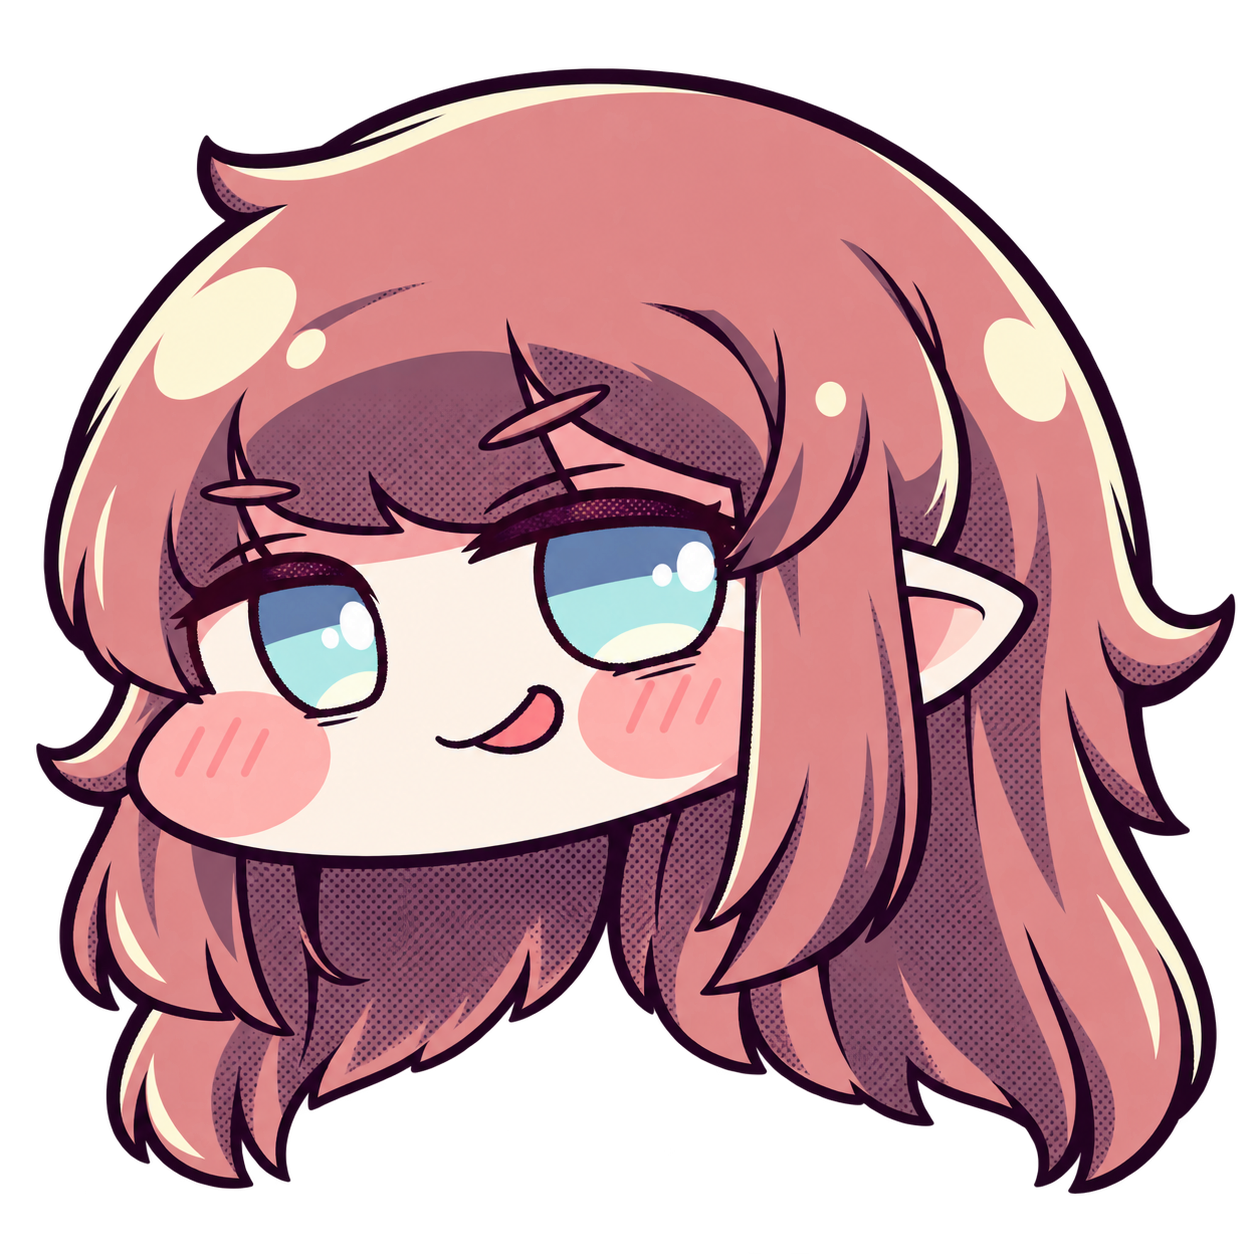
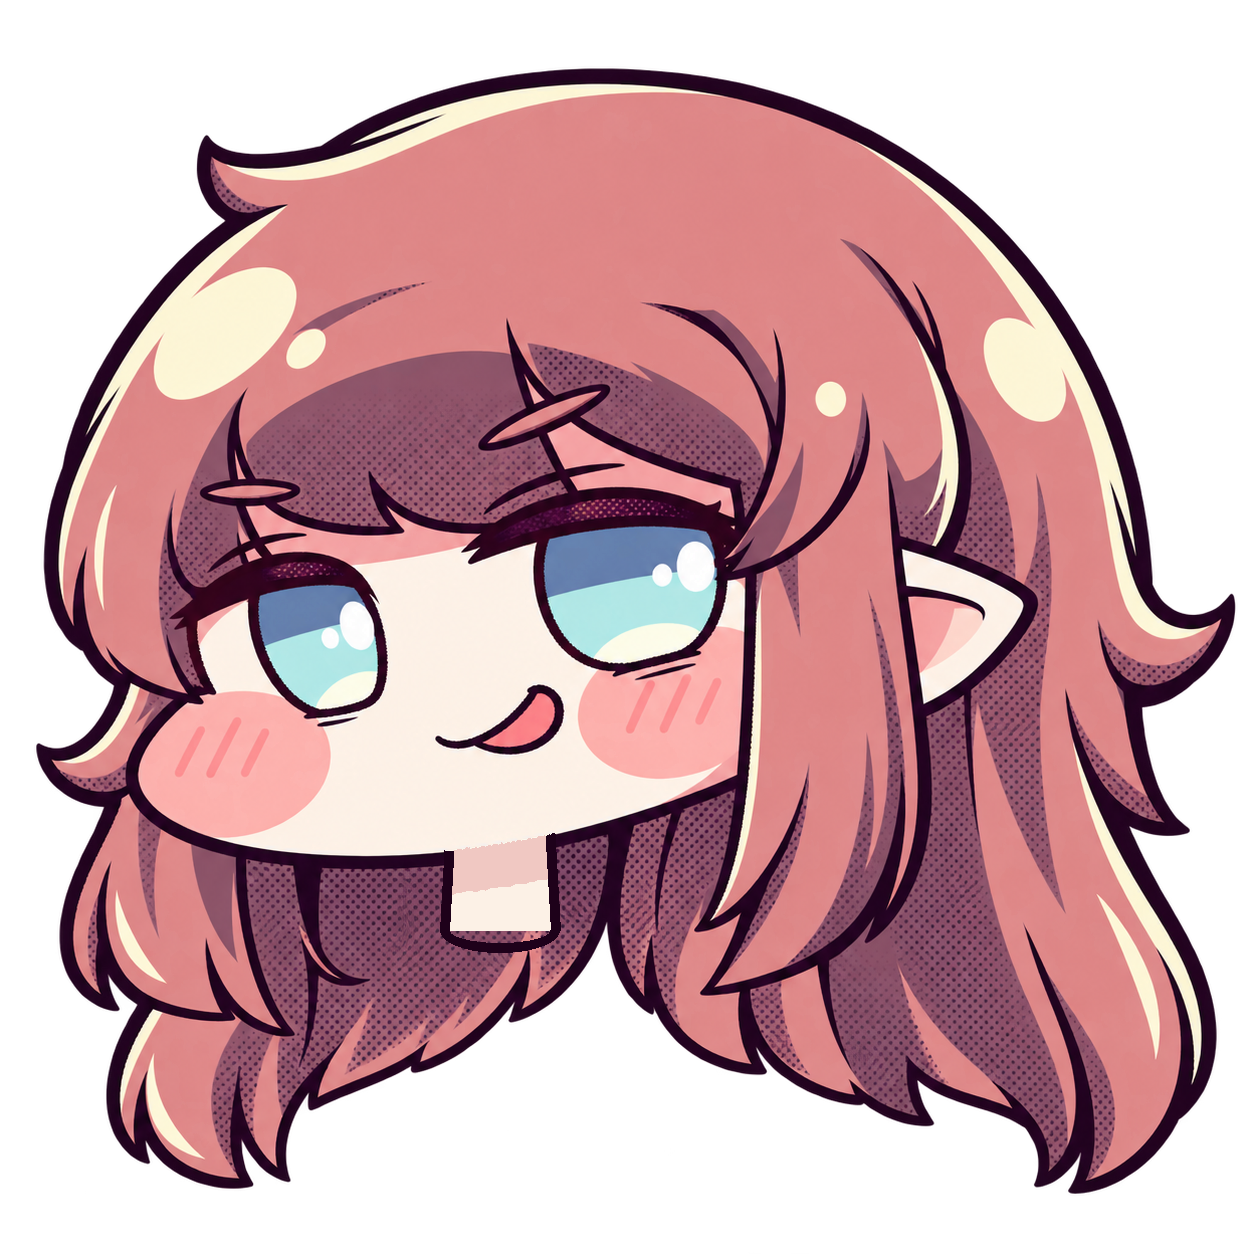
결과 화면 엘레나 목이 사라져 보이던 그림 수정 (일본어 제보), 결과 문구 검사가 저장된 보드에 흔들리지 않게
- assets/fx/result_faces/v1/avatar_03.png: 턱 아래가 짙은 뒷머리로 채워져 목이 없어 보였다 (엘레나는 턱이
  캔버스 68% 높이로 다른 캐릭터 71~81%보다 높아 순위 칸에서 턱 아래가 더 보인다). 원본 초상화 비율대로
  짧은 목(피부색·진한 윤곽선·턱 밑 셀 그림자)을 그려 넣음. source.json에 수정 기록·새 해시
- 1.2.1 공지 버그 수정(한·영·일), CHANGELOG
- ui_result_comic_test: 특수 승리 문구 기대값은 에르핀 왕국 기준으로 명시(저장된 보드가 벨라티엔이면
  LAW_02가 BAD CARROT이 되어 로컬에서 실패) + 모나티엄·벨라티엔 판 문구 검사 추가

Claude-Session: https://claude.ai/code/session_01HvvTBBGdmqrXHkL2GAw3GJ

Changed region(s): [[0.3421, 0.6531, 0.4665, 0.7775]]

diff --git a/CHANGELOG.md b/CHANGELOG.md
@@ -7,6 +7,7 @@
 - MAJOR: 정식 출시(1.0.0) 이후 저장 데이터·온라인 호환이 깨지는 변경
 
 ## [1.2.1] (캐릭터 보이스)
+- 수정(일본어 제보 "リザルト画面のエレナ様の首が消えているように見える"): 결과 화면 순위 칸(2~4위)의 엘레나 머리 그림(`assets/fx/result_faces/v1/avatar_03.png`)은 목을 지운 자리가 짙은 뒷머리로 채워져 있었고, 엘레나는 턱이 캔버스의 68% 높이로 다른 캐릭터(71~81%)보다 높아 칸 안에서 턱 아래가 더 많이 보였다. 원본 초상화 비율대로 턱 아래에 짧은 목(피부색 면·진한 윤곽선·턱 밑 셀 그림자)을 그려 넣었다. 1위 큰 그림(전신)은 원래 정상.
 - 정리(개발): 보드판을 데이터만으로 만들 수 있게 보드별 하드코딩을 걷어냈다. 보드마다 다른 것(판 바닥 그림·색, 빵집 자리·옷장 자리 칸 종류, 굴림 버튼 테마, 특수 승리 바꿔 쓰기의 이름·조건·카드 문구·아이콘·승리 무대·결과 문구)을 모두 `BoardCatalog`의 데이터(`BOARDS`·`SHOP_KINDS`·`PORTAL_KINDS`·`law_variants`)로 옮기고, `BoardSpec.convenience`/`witch` 분기(10여 파일)를 `BoardSpec.board_id`·`shop_kind`·`portal_kind`로 바꿨다. 도감의 칸 종류 설명 장과 보드 넘기기 화살표도 데이터에서 만든다. 새 보드 = `BOARDS`에 한 줄 + 판 바닥 그림 + 미리보기 그림 + 번역 행 (새 규칙의 칸이 필요할 때만 칸 종류와 그 규칙 코드). `tests/test_board_catalog.gd`가 빠진 데이터·그림·번역과, 다른 코드에 다시 생긴 보드 id 분기를 잡는다. 게임 동작·문구는 그대로.
 - 신규(일본어 건의 "倒された時や、カードを使うなど、色んな場面でキャラクターのボイスがあれば"): 캐릭터 상황별 보이스 (a66fd2f9, f6945bd7). 아바타 8명 × `opening`(게임 시작)·`attack`(잡기 컷인)·`hit`(잡힘, 사출 전에 대사)·`skill`(필살기·알까기 발사)·`augment`(내가 직접 고른 증강)·`victory`/`special_victory`(법전 승리, 없으면 victory) — `content_trickcal/avatars/<id>/<장면>_voice.ogg`, `AvatarCatalog.voice_path`. `Sfx.play_voice`가 토큰을 돌려주고 `voice_is_active`/`stop_voice`로 연출이 대사를 기다린다 (오프닝 퇴장·잡기 컷인 반동·사출). 출처는 CREDITS.md. 설정의 [캐릭터 음성] 음량·음소거.
 - 안전장치: 대사를 기다리는 연출은 대사 길이 + 1.5초가 지나면 재생 중이어도 끝난 것으로 본다 (`Sfx.voice_is_active`의 마감). 오디오 믹싱이 멈추면(웹에서 브라우저가 오디오를 멈춤: 휴대폰 백그라운드·iOS 끊김) `playing`이 계속 true라 잡기·오프닝이 영영 기다릴 수 있었다 — `AudioServer.lock()`으로 믹싱을 멈춰 재현, 마감 뒤 약 3.2초에 풀림 확인.
